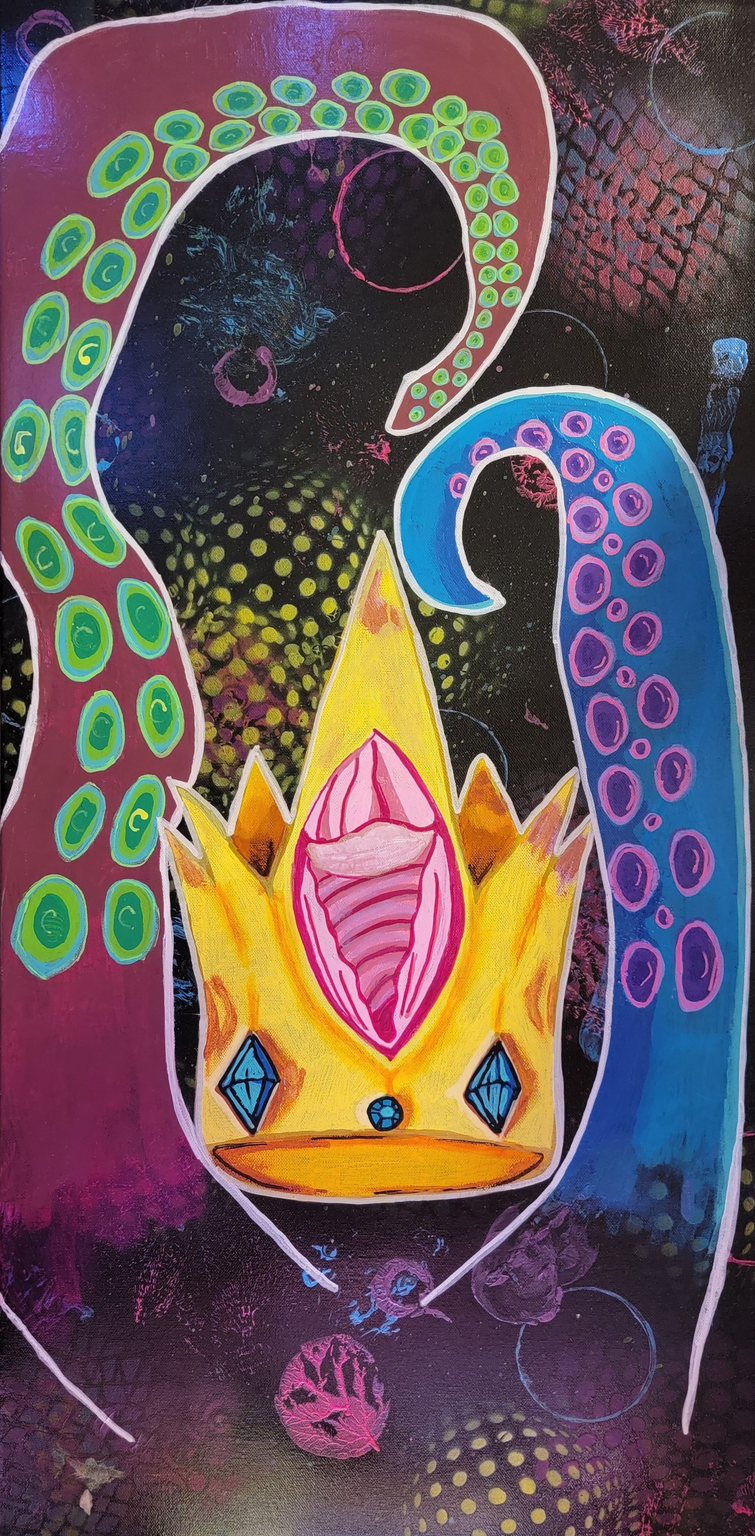
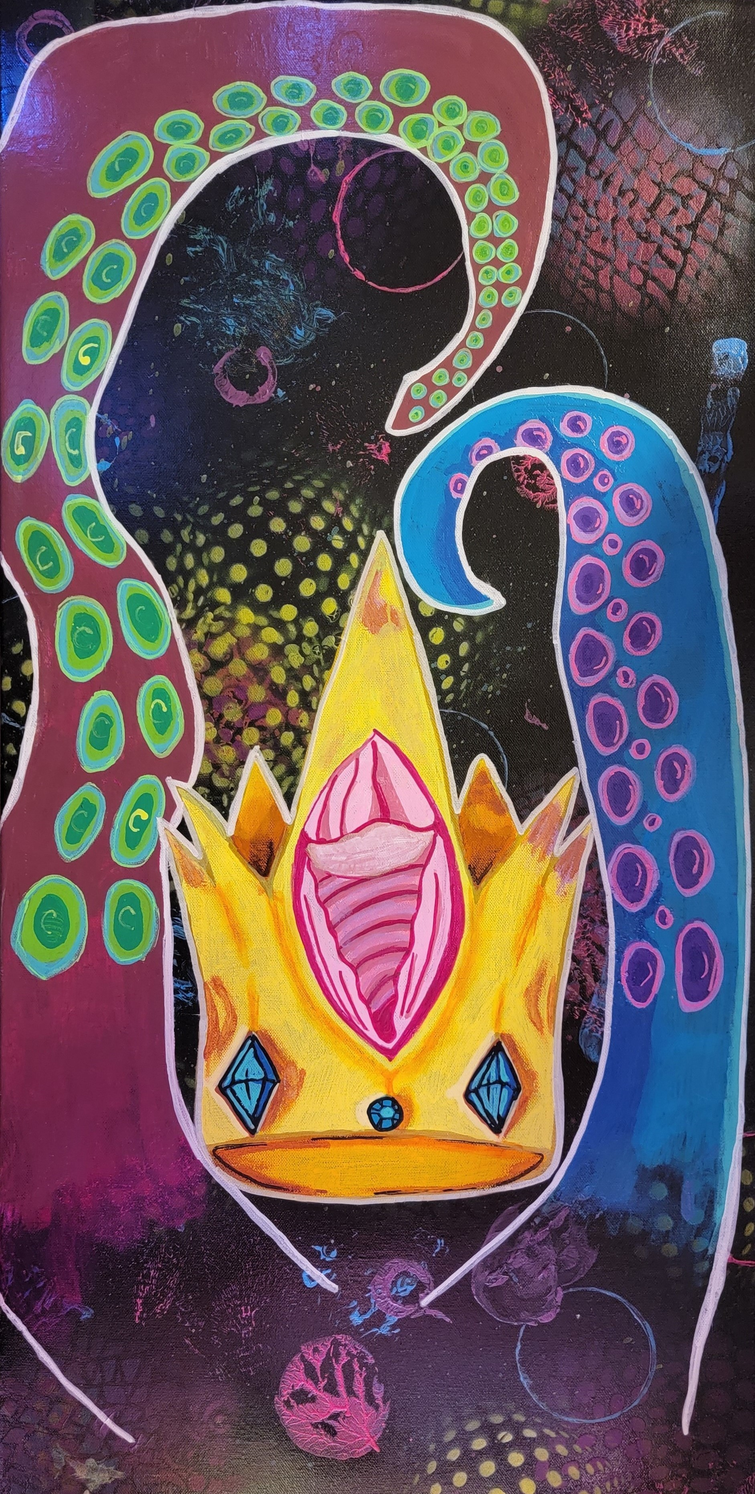
RHG 1.0.33 <3

diff --git a/src/styles/workshop-page.css b/src/styles/workshop-page.css
@@ -115,23 +115,22 @@ display: block;
 .giggles-text {
   position: absolute;
   left: 50%;
-  top: 90%;
+  top: 88%;
   width: 95%;
 
   font-size: clamp(.4rem, 2cqi, 3rem);
   font-weight: 500;
   font-style: oblique;
   text-align: center;
-  color: rgb(0, 255, 255); 
+  color: rgba(0, 255, 255, 1); 
   
   transform: translate(-50%, -50%) scale(1);
   transform-origin: center center;
   will-change: transform;
 
-  mix-blend-mode: normal;
+  mix-blend-mode:hard-light;
   transition: 
-    transform 1500ms cubic-bezier(0.25, 1, 0.5, 1) 50ms,
-    color 1500ms ease 50ms;
+    transform 1500ms cubic-bezier(0.25, 1, 0.5, 1) 50ms;
     
   z-index: 2;
 }
@@ -148,7 +147,7 @@ display: block;
   }
 
   .giggles-grotto:hover .giggles-text {  
-    mix-blend-mode: difference;
+    mix-blend-mode:difference;
     transition: all 1500ms cubic-bezier(0.25, 1, 0.5, 1) 20ms;
   }
 }
